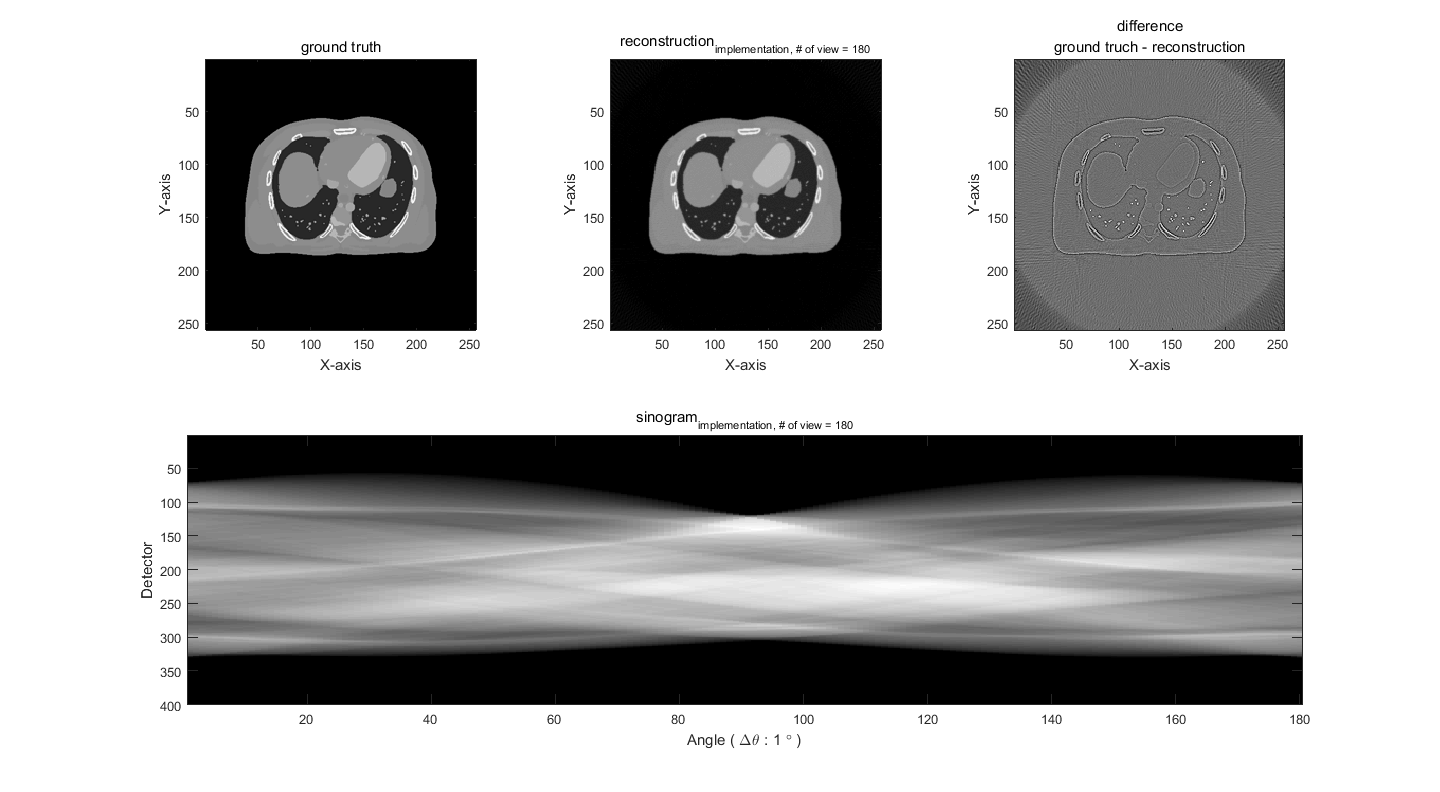
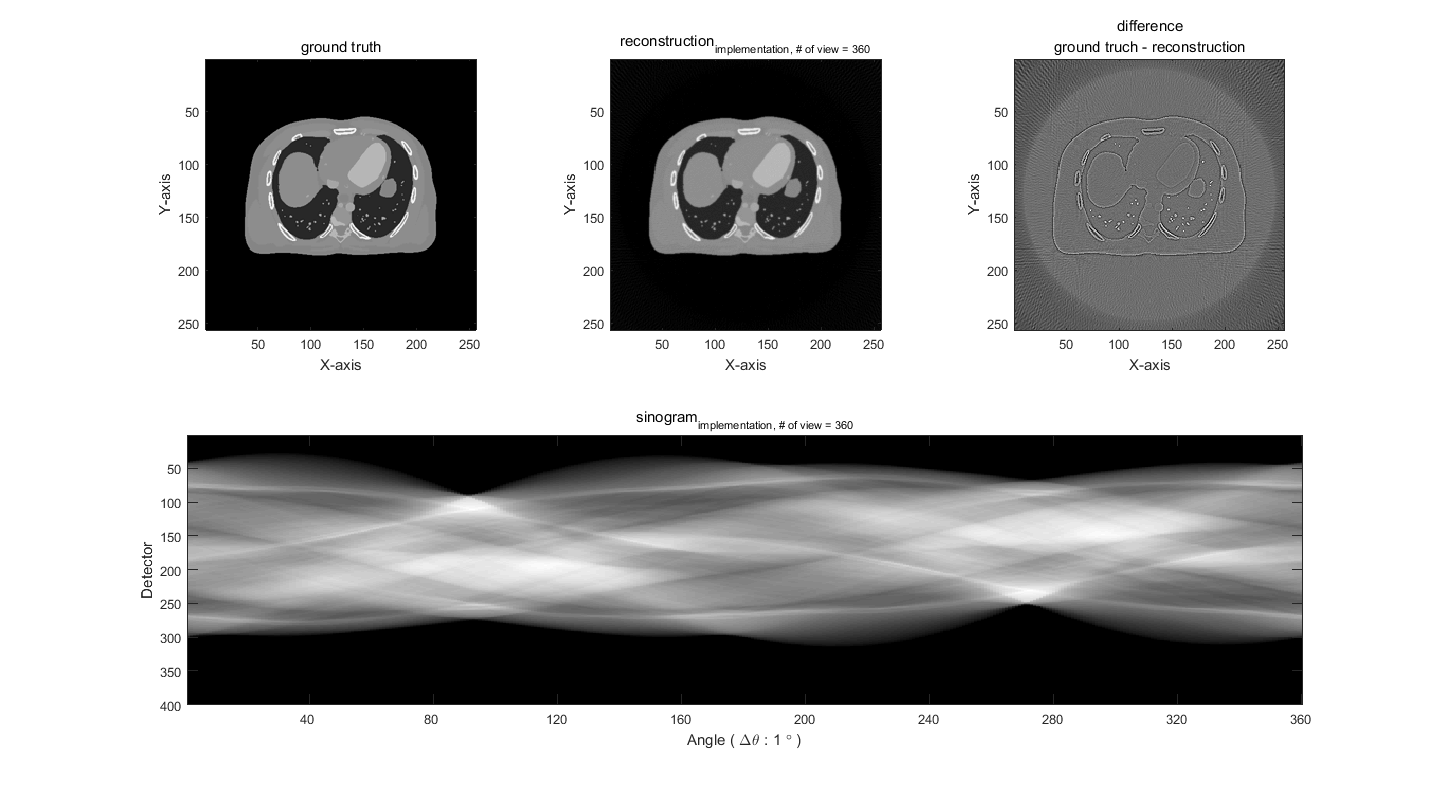
upload reconstruction image

Changed region(s): [[0.125, 0.5758, 0.9062, 0.8485]]

diff --git a/demo_parallelbeam_ct.m b/demo_parallelbeam_ct.m
@@ -12,7 +12,7 @@ addpath('./lib');
 % DSO   : Distance from the Source to the Object    [mm]
 % DSD 	: Distance from the Source to the Detector  [mm]
 param.dAngle        = 360;  % degree
-param.nView         = 180; 	% # of unit
+param.nView         = 360; 	% # of unit
 param.dView         = param.dAngle/param.nView;  % degree
 param.pdView        = linspace(0, param.dAngle - param.dAngle/param.nView, param.nView);
 param.DSO           = 400 ; % mm
@@ -27,7 +27,7 @@ param.dDctX         = 0.7;  % mm
 
 param.nDctX         = 400;  % # of elements
 
-param.dOffsetDctX   = 50; 	% # of elements
+param.dOffsetDctX   = 30; 	% # of elements
 
 param.compute_filtering = 'fft';   % method for computing the filtering function : 'conv', 'fft'
 
